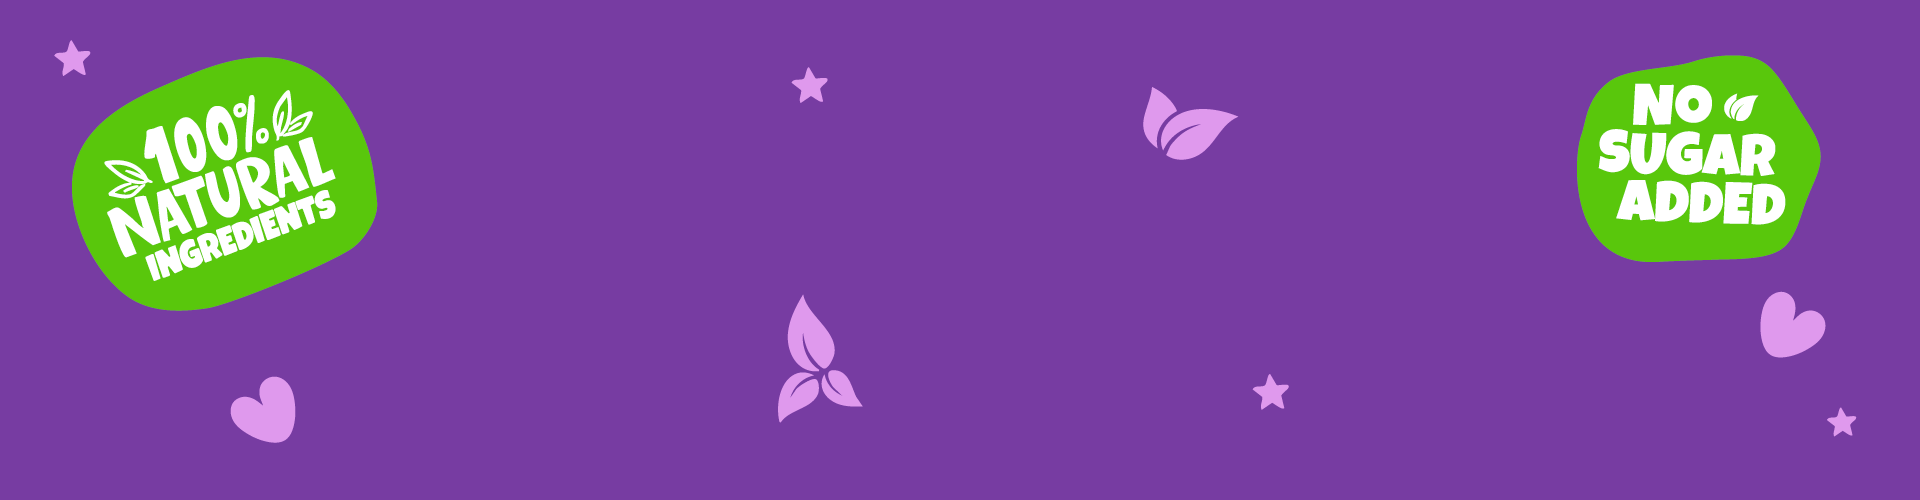
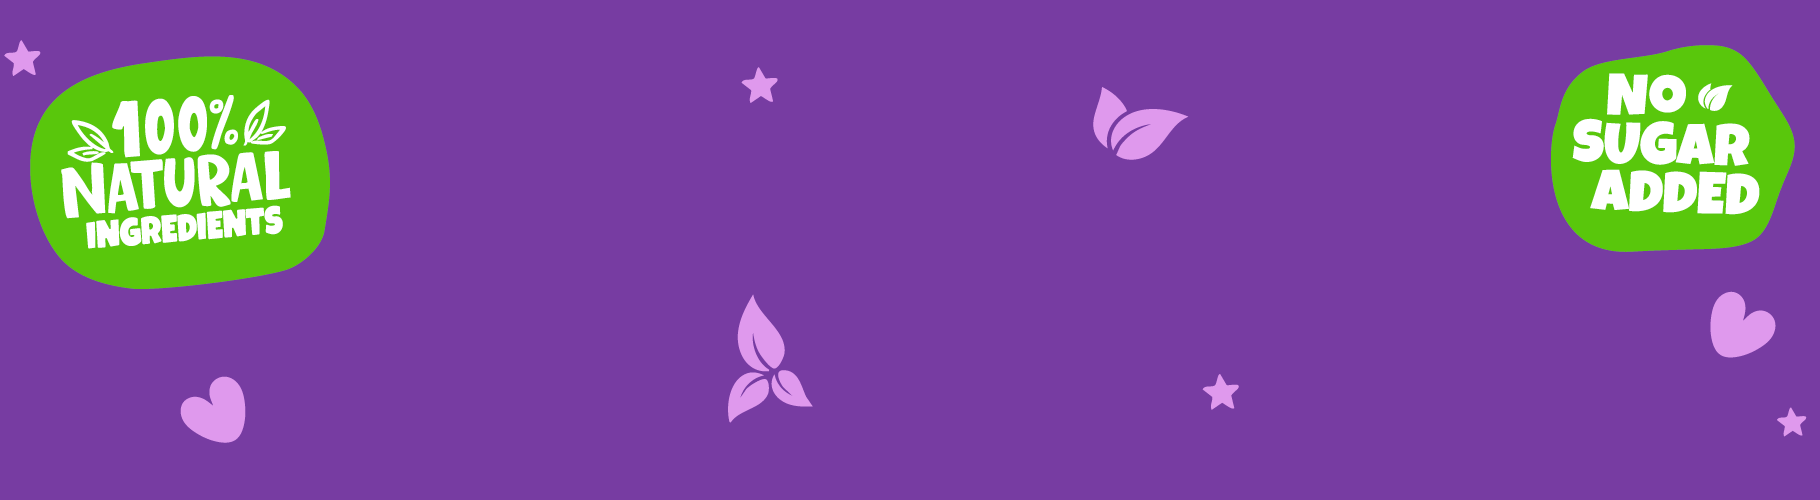
add new

diff --git a/app/[locale]/page.tsx b/app/[locale]/page.tsx
@@ -92,6 +92,9 @@ const ScrollReveal = ({ children, delay = 0, direction = "up", className = "" }:
     }
   }, [isInView, controls]);
 
+
+
+  
   return (
     <motion.div
       ref={ref}
@@ -147,6 +150,58 @@ const StaggerItem = ({ children, className = "" }: { children: React.ReactNode; 
 };
 
 export default function HomePage() {
+
+  const [isHovering, setIsHovering] = useState(false);
+  const scrollRef = useRef(null);
+  const animationRef = useRef(null);
+  const positionRef = useRef(0);
+  const speed = 0.8; // արագությունը (քիչ = դանդաղ)
+
+  useEffect(() => {
+    const scrollContainer = scrollRef.current;
+    if (!scrollContainer) return;
+
+    let lastTimestamp = 0;
+    
+    const animate = (timestamp:any) => {
+      if (!lastTimestamp) {
+        lastTimestamp = timestamp;
+        //@ts-ignore
+        animationRef.current = requestAnimationFrame(animate);
+        return;
+      }
+
+      if (!isHovering) {
+        // Շարժումը միայն եթե hover չկա
+        positionRef.current -= speed;
+        
+        // Վերականգնում առանց դխկոցի
+                //@ts-ignore
+
+        const halfWidth = scrollContainer.scrollWidth / 2;
+        if (Math.abs(positionRef.current) >= halfWidth) {
+          positionRef.current = 0;
+        }
+                //@ts-ignore
+
+        scrollContainer.style.transform = `translateX(${positionRef.current}px)`;
+      }
+      
+      lastTimestamp = timestamp;
+              //@ts-ignore
+
+      animationRef.current = requestAnimationFrame(animate);
+    };
+        //@ts-ignore
+
+    animationRef.current = requestAnimationFrame(animate);
+
+    return () => {
+      if (animationRef.current) {
+        cancelAnimationFrame(animationRef.current);
+      }
+    };
+  }, [isHovering, speed]);
   const { t, language } = useLanguage();
   const [filter, setFilter] = useState<Filter>("all");
   const [type, setType] = useState<string>("");
@@ -362,21 +417,30 @@ ${type} ${creamType}։ ${t("imageLabel")} ${SITE_URL}${pendingImage.startsWith("
   const partyShopControls = useAnimation();
 
   // Products slider animation
+  const visibleProductsCount = useMemo(
+    () => Math.min(filteredProducts.length, 6),
+    [filteredProducts.length]
+  );
+  
   useEffect(() => {
-    if (isProductsAutoPlaying) {
-      productsControls.start({
-        x: [0, -((filteredProducts.slice(0, 6).length * (320 + 24)))],
-        transition: {
-          duration: 20,
-          repeat: Infinity,
-          ease: "linear",
-          repeatType: "loop"
-        }
-      });
-    } else {
+    if (!isProductsAutoPlaying) {
       productsControls.stop();
+      return;
     }
-  }, [isProductsAutoPlaying, filteredProducts, productsControls]);
+    
+    const itemWidth = 320 + 24;
+    const totalWidth = visibleProductsCount * itemWidth;
+    
+    productsControls.start({
+      x: [0, -totalWidth],
+      transition: {
+        duration: 30,
+        repeat: Infinity,
+        ease: "linear",
+        repeatType: "loop"
+      }
+    });
+  }, [isProductsAutoPlaying, visibleProductsCount]); // Only when necessary
 
   // PartyShop slider animation
   useEffect(() => {
@@ -394,6 +458,8 @@ ${type} ${creamType}։ ${t("imageLabel")} ${SITE_URL}${pendingImage.startsWith("
       partyShopControls.stop();
     }
   }, [isPartyShopAutoPlaying, partyShopControls]);
+
+   
 
   // Get current slide's image (desktop or mobile)
   const currentSlideData = heroSlides[currentSlide];
@@ -424,8 +490,8 @@ ${type} ${creamType}։ ${t("imageLabel")} ${SITE_URL}${pendingImage.startsWith("
         {/* ========== HERO SLIDER ========== */}
         <ScrollReveal direction="up" delay={0}>
           <section
-            onMouseEnter={() => setIsAutoPlaying(false)}
-            onMouseLeave={() => setIsAutoPlaying(true)}
+      onMouseEnter={() => setIsHovering(true)}   
+      onMouseLeave={() => setIsHovering(false)} 
             className="relative overflow-hidden"
           >
             <div className="relative w-full h-[280px] sm:h-[380px] md:h-[420px] lg:h-[480px]">
@@ -440,8 +506,8 @@ ${type} ${creamType}։ ${t("imageLabel")} ${SITE_URL}${pendingImage.startsWith("
                     src={idx === currentSlide ? currentBgImage! : (isMobile ? slide.imageMobile : slide.imageDesktop)}
                     alt={slide.title || "Hero background"}
                     fill
-                    className="w-full h-full  object-center"
-                    priority={idx === 0}
+                    className="w-full h-full object-center"
+                                                            priority={idx === 0}
                     sizes="(max-width: 768px) 100vw, 100vw"
                     quality={90}
                   />
@@ -607,7 +673,7 @@ ${type} ${creamType}։ ${t("imageLabel")} ${SITE_URL}${pendingImage.startsWith("
 
             <ScrollReveal direction="up" delay={0.2}>
               <div className="flex justify-center mt-8 md:mt-12">
-                <Link href={`/${locale}/shop`}>
+                <Link href={`/${locale}/cakes`}>
                   <button className="px-6 md:px-8 py-2.5 md:py-3 rounded-full bg-[#69429a] text-white font-semibold text-base md:text-lg transition-all hover:bg-[#7c4fb3] hover:scale-105 shadow-lg hover:shadow-xl">
                     {t('seeMoreLabel')} →
                   </button>
@@ -988,6 +1054,14 @@ ${type} ${creamType}։ ${t("imageLabel")} ${SITE_URL}${pendingImage.startsWith("
     .animate-float-right {
       animation: floatRightMobile 7s ease-in-out infinite;
     }
+  }
+
+  @keyframes scroll {
+    0% { transform: translateX(0); }
+    100% { transform: translateX(-50%); }
+  }
+  .carousel-track {
+    animation: scroll 20s linear infinite;
   }
 `}</style>
     </>

diff --git a/components/header.tsx b/components/header.tsx
@@ -18,10 +18,11 @@ export function Header() {
 
   const navItems = [
     { href: `/${language}`, label: t("home") },
-    { href: `/${language}/about`, label: t("about") },
-    { href: `/${language}/shop`, label: t("shop") },
-    { href: `/${language}/contact`, label: t("contact") },
+    { href: `/${language}/cakes`, label: t("cakes") },
     { href: `/${language}/partyshop`, label: t("partyshop") },
+    { href: `/${language}/about`, label: t("about") },
+    { href: `/${language}/contact`, label: t("contact") },
+
   ];
 
   const isActive = (href: string) => pathname === href;
@@ -38,19 +39,17 @@ export function Header() {
             <Link
               key={item.href}
               href={item.href}
-              className={`relative pb-1 text-sm font-medium transition-colors ${
-                isActive(item.href)
+              className={`relative pb-1 text-sm font-medium transition-colors ${isActive(item.href)
                   ? "text-[#69429a]"
                   : "text-foreground/80 hover:text-primary"
-              }`}
+                }`}
             >
               {item.label}
               <span
-                className={`absolute left-0 -bottom-0.5 h-[2px] w-full rounded-full transition-all duration-300 ${
-                  isActive(item.href)
+                className={`absolute left-0 -bottom-0.5 h-[2px] w-full rounded-full transition-all duration-300 ${isActive(item.href)
                     ? "bg-[#69429a] opacity-100"
                     : "bg-transparent opacity-0"
-                }`}
+                  }`}
               />
             </Link>
           ))}
@@ -98,11 +97,10 @@ export function Header() {
                 key={item.href}
                 href={item.href}
                 onClick={() => setIsMenuOpen(false)}
-                className={`relative rounded-lg px-4 py-2 text-sm font-medium transition-colors ${
-                  isActive(item.href)
+                className={`relative rounded-lg px-4 py-2 text-sm font-medium transition-colors ${isActive(item.href)
                     ? "bg-muted text-[#69429a]"
                     : "text-foreground/80 hover:bg-muted hover:text-primary"
-                }`}
+                  }`}
               >
                 {item.label}
                 {isActive(item.href) && (

diff --git a/components/language-provider.tsx b/components/language-provider.tsx
@@ -82,10 +82,16 @@ export const translations: Translations = {
     pl: "Ciasta przygotowywane są z naturalnych i świeżych składników, bez cukru i sztucznych dodatków."
   },
   partners: {
-    hy: "Մեր գործընկերներ",
+    hy: "Մեր գործընկերները",
     en: "Our Partners",
     ru: "Наши партнеры",
     pl: "Nasi partnerzy"
+  },
+  cakes: {
+    hy: "Տորթեր",
+    en: "Cakes",
+    ru: "Торты",
+    pl: "Ciasta"
   },
   subtotal: {
     hy: "Տորթի արժեք",

diff --git a/components/CartDrawer.tsx b/components/CartDrawer.tsx
@@ -79,7 +79,7 @@ const paymentMethodDisplayMap: Record<string, string> = {
 
 const deliveryOptionDisplayMap: Record<string, string> = {
   delivery: "🚚 Առաքում",
-  pickup: "🏠 Ինքնակառավարում",
+  pickup: "🏠 Տեղում վերցնել",
 };
 
 // ========== DELIVERY CONSTANTS ==========